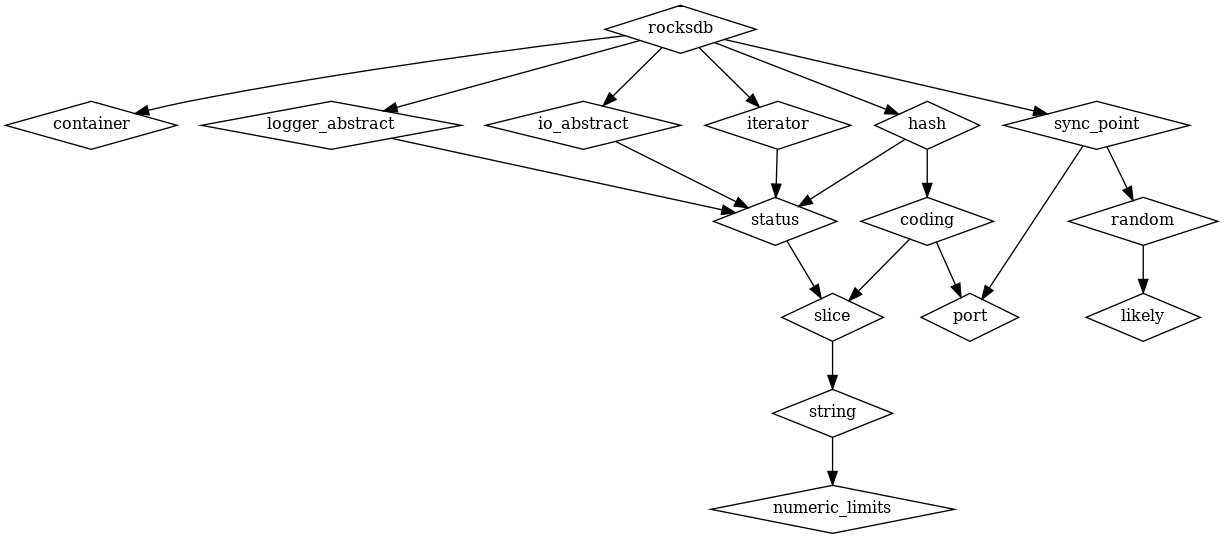
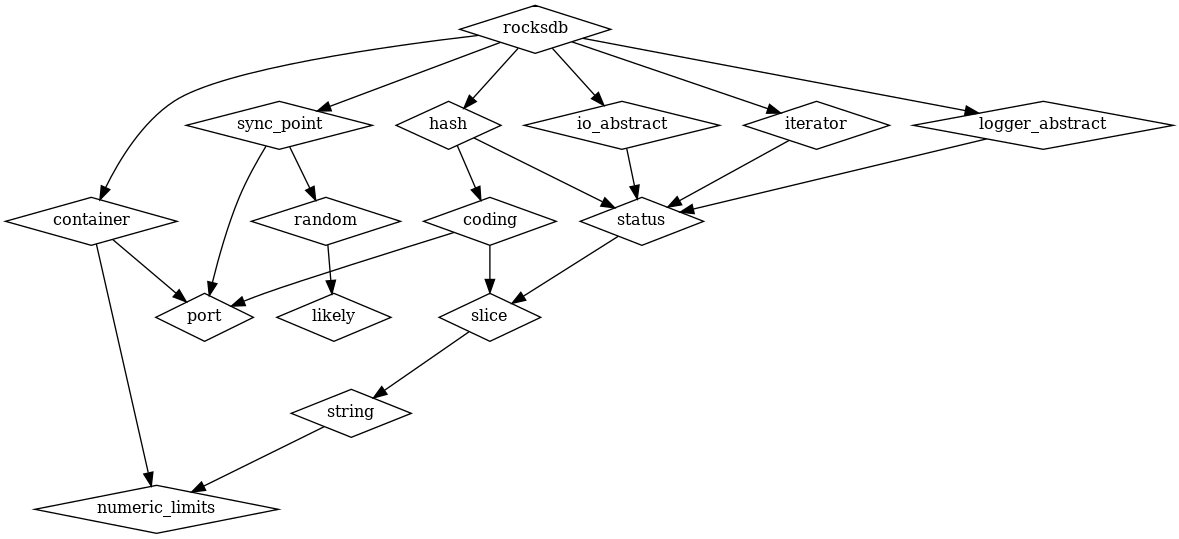
Extend container library

diff --git a/utilities/transactions/transaction_lock_mgr.h b/utilities/transactions/transaction_lock_mgr.h
@@ -16,7 +16,7 @@
 #include "monitoring/instrumented_mutex.h"
 #include "rocksdb/utilities/transaction.h"
 #include <rock/container/autovector.h>
-#include "util/hash_map.h"
+#include <rock/container/HashMap.h>
 #include "util/thread_local.h"
 #include "utilities/transactions/pessimistic_transaction.h"
 

diff --git a/util/file_reader_writer.h b/util/file_reader_writer.h
@@ -16,7 +16,7 @@
 #include "rocksdb/listener.h"
 #include "rocksdb/rate_limiter.h"
 #include <rock/sync_point/sync_point.h>
-#include "util/aligned_buffer.h"
+#include <rock/container/AlignedBuffer.h>
 
 #include <rock/numeric_limits/numeric_limits.h>
 #include <rock/io_abstract/SequentialFile.h>

diff --git a/db/range_del_aggregator.cc b/db/range_del_aggregator.cc
@@ -16,7 +16,7 @@
 #include "table/internal_iterator.h"
 #include "table/scoped_arena_iterator.h"
 #include "table/table_builder.h"
-#include "util/heap.h"
+#include <rock/container/BinaryHeap.h>
 #include "util/kv_map.h"
 #include "util/vector_iterator.h"
 

diff --git a/table/merging_iterator.cc b/table/merging_iterator.cc
@@ -22,7 +22,7 @@
 #include "table/iterator_wrapper.h"
 #include <rock/sync_point/sync_point.h>
 #include <rock/container/autovector.h>
-#include "util/heap.h"
+#include <rock/container/BinaryHeap.h>
 #include "util/stop_watch.h"
 
 namespace rocksdb {

diff --git a/db/range_del_aggregator.h b/db/range_del_aggregator.h
@@ -24,7 +24,7 @@
 #include "table/internal_iterator.h"
 #include "table/scoped_arena_iterator.h"
 #include "table/table_builder.h"
-#include "util/heap.h"
+#include <rock/container/BinaryHeap.h>
 #include "util/kv_map.h"
 
 namespace rocksdb {

diff --git a/util/rate_limiter.cc b/util/rate_limiter.cc
@@ -12,7 +12,7 @@
 #include <rock/port/port.h>
 #include "rocksdb/env.h"
 #include <rock/sync_point/sync_point.h>
-#include "util/aligned_buffer.h"
+#include <rock/container/AlignedBuffer.h>
 
 #include <rock/numeric_limits/numeric_limits.h>
 

diff --git a/port/win/io_win.cc b/port/win/io_win.cc
@@ -11,7 +11,7 @@
 
 #include "monitoring/iostats_context_imp.h"
 #include <rock/sync_point/sync_point.h>
-#include "util/aligned_buffer.h"
+#include <rock/container/AlignedBuffer.h>
 #include <rock/coding/coding.h>
 
 namespace rocksdb {

diff --git a/env/env_encryption.cc b/env/env_encryption.cc
@@ -11,7 +11,7 @@
 #include <iostream>
 
 #include "rocksdb/env_encryption.h"
-#include "util/aligned_buffer.h"
+#include <rock/container/AlignedBuffer.h>
 #include <rock/coding/coding.h>
 #include <rock/random/Random.h>
 

diff --git a/port/win/io_win.h b/port/win/io_win.h
@@ -14,7 +14,7 @@
 
 #include <rock/status/Status.h>
 #include "rocksdb/env.h"
-#include "util/aligned_buffer.h"
+#include <rock/container/AlignedBuffer.h>
 
 #include <windows.h>
 

diff --git a/util/heap_test.cc b/util/heap_test.cc
@@ -11,7 +11,7 @@
 #include <random>
 #include <utility>
 
-#include "util/heap.h"
+#include <rock/container/BinaryHeap.h>
 
 #ifndef GFLAGS
 const int64_t FLAGS_iters = 100000;

diff --git a/libs/container/include/rock/container/AlignedBuffer.h b/libs/container/include/rock/container/AlignedBuffer.h
@@ -10,6 +10,7 @@
 
 #include <algorithm>
 #include <rock/port/port.h>
+#include <cassert>
 
 namespace rocksdb {
 

diff --git a/libs/container/src/AlignedBuffer.cpp b/libs/container/src/AlignedBuffer.cpp
@@ -1,0 +1,1 @@
+#include <rock/container/AlignedBuffer.h>
